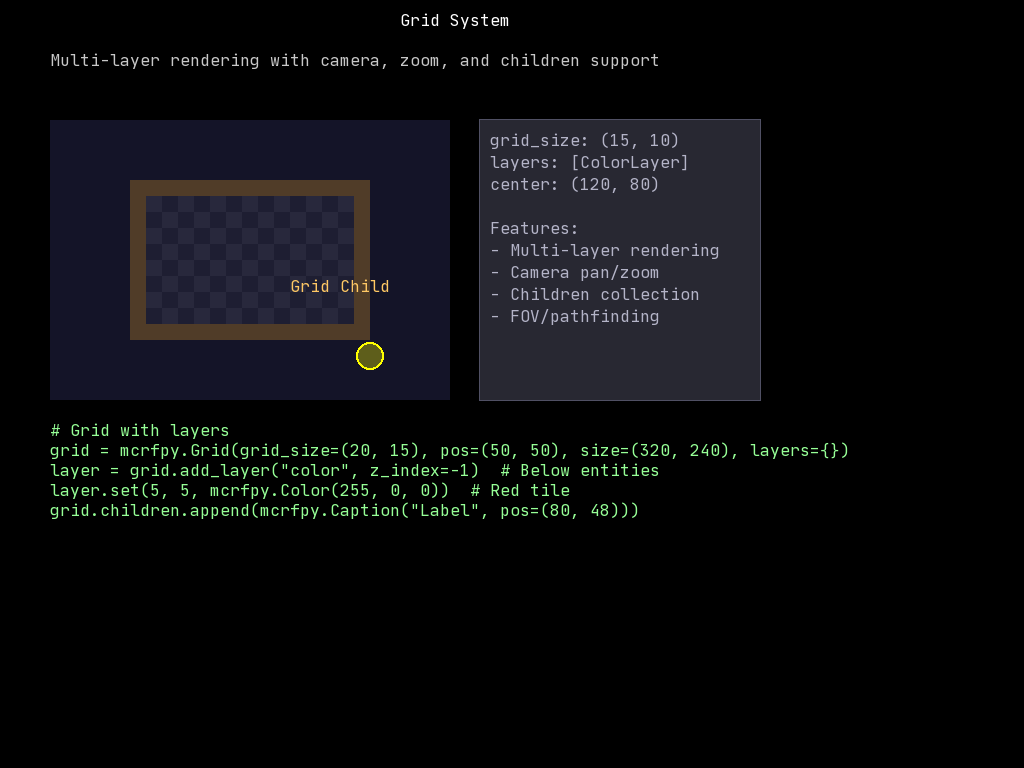
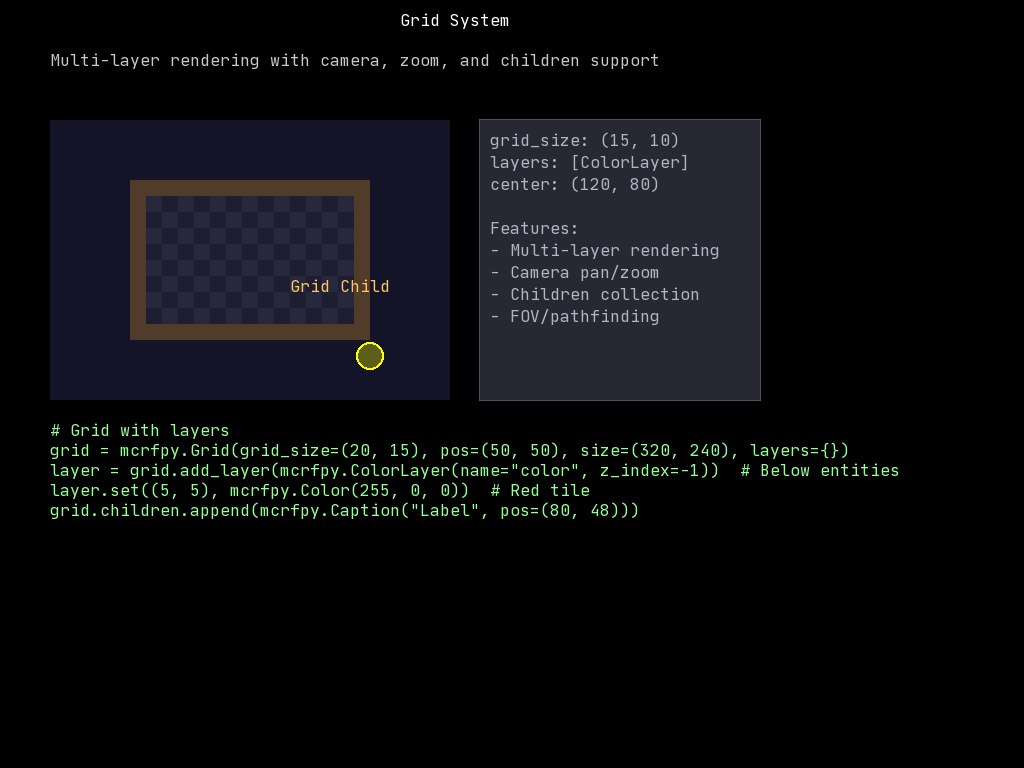
fix(demos): unrot tests/demo and gate it in CI
tests/demo/demo_main.py died immediately on `mcrfpy.sceneUI`, removed with the
pre-Scene-object API. Four bugs, not the one filed:

  1. screens/base.py called mcrfpy.sceneUI(name). The Scene object it had already
     constructed owns the UI collection: scene.children.
  2. demo_main.py called the removed mcrfpy.setScene().
  3. run_interactive() referenced `menu`, a local of create_menu() -- NameError on
     every interactive launch, independent of the sceneUI bug.
  4. run_headless() assigned a DemoScreen (not a Scene) to mcrfpy.current_scene ->
     TypeError, so the headless screenshot path was broken too.

The screens themselves had rotted the same way as the unit suite: add_layer() no
longer takes keyword arguments or a name (it takes a layer object), layer.set()
takes a position tuple, and mcrfpy.Animation is no longer exported (targets animate
themselves). Fixed in grid_demo and animation_demo, including the code samples the
demos display -- the demos are documentation, so a stale sample is a stale doc.

The headless path also no longer needs a Timer at all. Rendering costs zero
simulation time (#341/#350), so it just activates each scene and screenshots it,
rather than waiting for frames that headless never runs.

Six showcase scripts wrote to a hardcoded /opt/goblincorps/... absolute path outside
the repo, so they raised PermissionError for anyone else. Replaced with
tests/demo/docs_output.py: $MCRF_DOCS_REPO, else a side-by-side mcrogueface.github.io
[…]

Changed region(s): [[0.125, 0.5938, 0.6875, 0.6562], [0.7188, 0.5938, 0.875, 0.625]]

diff --git a/tests/demo/demo_main.py b/tests/demo/demo_main.py
@@ -40,6 +40,7 @@ class DemoRunner:
 
     def __init__(self):
         self.screens = []
+        self.menu = None
         self.current_index = 0
         self.headless = self._detect_headless()
         self.screenshot_dir = os.path.join(os.path.dirname(__file__), "screenshots")
@@ -65,7 +66,10 @@ class DemoRunner:
 
     def create_menu(self):
         """Create the main menu screen."""
-        menu = mcrfpy.Scene("menu")
+        # #372: was a local, but run_interactive() referenced `menu` -- NameError on
+        # every interactive launch. Keep it on the runner.
+        self.menu = mcrfpy.Scene("menu")
+        menu = self.menu
         ui = menu.children
 
         # Title
@@ -104,46 +108,30 @@ class DemoRunner:
         ui.append(instr)
 
     def run_headless(self):
-        """Run in headless mode - generate all screenshots."""
-        print(f"Generating {len(self.screens)} demo screenshots...")
+        """Run in headless mode - generate all screenshots.
 
-        # Ensure screenshot directory exists
+        #372/#350: this used to drive a Timer and wait for render frames. Headless
+        timers only advance under mcrfpy.step(), so that loop never fired. It is also
+        unnecessary: a screenshot renders the current state synchronously and costs
+        zero simulation time, so we can just activate each scene and shoot it.
+        """
+        print(f"Generating {len(self.screens)} demo screenshots...")
         os.makedirs(self.screenshot_dir, exist_ok=True)
 
-        # Use timer to take screenshots after game loop renders each scene
-        self.current_index = 0
-        self.render_wait = 0
+        for i, screen in enumerate(self.screens):
+            # #372: was `mcrfpy.current_scene = screen` -- a DemoScreen, not a Scene,
+            # which raised TypeError and broke the headless path outright.
+            screen.scene.activate()
+            filename = os.path.join(self.screenshot_dir, screen.get_screenshot_name())
+            automation.screenshot(filename)
+            print(f"  [{i+1}/{len(self.screens)}] {filename}")
 
-        def screenshot_cycle(timer, runtime):
-            if self.render_wait == 0:
-                # Set scene and wait for render
-                if self.current_index >= len(self.screens):
-                    print("Done!")
-                    sys.exit(0)
-                    return
-                screen = self.screens[self.current_index]
-                mcrfpy.current_scene = screen
-                self.render_wait = 1
-            elif self.render_wait < 2:
-                # Wait additional frame
-                self.render_wait += 1
-            else:
-                # Take screenshot
-                screen = self.screens[self.current_index]
-                filename = os.path.join(self.screenshot_dir, screen.get_screenshot_name())
-                automation.screenshot(filename)
-                print(f"  [{self.current_index+1}/{len(self.screens)}] {filename}")
-                self.current_index += 1
-                self.render_wait = 0
-                if self.current_index >= len(self.screens):
-                    print("Done!")
-                    sys.exit(0)
-
-        self.screenshot_timer = mcrfpy.Timer("screenshot", screenshot_cycle, 50)
+        print("Done!")
 
     def run_interactive(self):
         """Run in interactive mode with menu."""
         self.create_menu()
+        menu = self.menu
 
         def handle_key(key, state):
             if state != mcrfpy.InputState.PRESSED:
@@ -156,7 +144,8 @@ class DemoRunner:
             if key in _num_key_map:
                 idx = _num_key_map[key]
                 if idx < len(self.screens):
-                    mcrfpy.setScene(self.screens[idx].scene_name)
+                    # #372: mcrfpy.setScene() no longer exists.
+                    self.screens[idx].scene.activate()
 
             # ESC returns to menu
             elif key == mcrfpy.Key.ESCAPE:
@@ -166,14 +155,10 @@ class DemoRunner:
             elif key == mcrfpy.Key.Q:
                 sys.exit(0)
 
-        # Register keyboard handler on menu scene
-        menu.activate()
+        # The same handler serves the menu and every demo scene, so ESC always works.
         menu.on_key = handle_key
-
-        # Also register keyboard handler on all demo scenes
         for screen in self.screens:
-            mcrfpy.current_scene = screen
-            menu.on_key = handle_key
+            screen.scene.on_key = handle_key
 
         # Start on menu
         menu.activate()
@@ -185,6 +170,8 @@ def main():
 
     if runner.headless:
         runner.run_headless()
+        # #350: a headless --exec script must declare its outcome.
+        sys.exit(0)
     else:
         runner.run_interactive()
 

diff --git a/tests/demo/docs_output.py b/tests/demo/docs_output.py
@@ -1,0 +1,40 @@
+"""Where the showcase scripts write their generated images (#372).
+
+These scripts used to hardcode /opt/goblincorps/repos/mcrogueface.github.io -- an
+absolute path outside the repo, on one developer's machine. Anyone else running them
+got PermissionError, which is part of why they rotted unnoticed.
+
+Resolution order:
+  1. $MCRF_DOCS_REPO            -- explicit checkout of mcrogueface.github.io
+  2. ../mcrogueface.github.io   -- the usual side-by-side checkout
+  3. tests/demo/screenshots/    -- in-repo default, always writable
+"""
+import os
+
+_HERE = os.path.dirname(os.path.abspath(__file__))
+_REPO_ROOT = os.path.dirname(os.path.dirname(_HERE))
+
+
+def docs_repo():
+    """Root of the documentation site checkout, or None if there isn't one."""
+    env = os.environ.get("MCRF_DOCS_REPO")
+    if env and os.path.isdir(env):
+        return env
+    sibling = os.path.join(os.path.dirname(_REPO_ROOT), "mcrogueface.github.io")
+    if os.path.isdir(sibling):
+        return sibling
+    return None
+
+
+def image_dir(*parts):
+    """Directory for generated images, created if needed.
+
+    parts: subpath under the docs site's images/ (e.g. "cookbook", "tutorials").
+    """
+    repo = docs_repo()
+    if repo:
+        target = os.path.join(repo, "images", *parts)
+    else:
+        target = os.path.join(_HERE, "screenshots", *parts)
+    os.makedirs(target, exist_ok=True)
+    return target

diff --git a/tests/demo/screens/animation_demo.py b/tests/demo/screens/animation_demo.py
@@ -10,20 +10,21 @@ class AnimationDemo(DemoScreen):
         self.add_title("Animation System")
         self.add_description("Smooth property animation with multiple easing functions")
 
-        # Create frames to animate
+        # Create frames to animate.
+        # #372: easings are the mcrfpy.Easing enum now, not magic strings.
         easing_types = [
-            ("linear", mcrfpy.Color(255, 100, 100)),
-            ("easeIn", mcrfpy.Color(100, 255, 100)),
-            ("easeOut", mcrfpy.Color(100, 100, 255)),
-            ("easeInOut", mcrfpy.Color(255, 255, 100)),
+            ("linear", mcrfpy.Easing.LINEAR, mcrfpy.Color(255, 100, 100)),
+            ("easeIn", mcrfpy.Easing.EASE_IN, mcrfpy.Color(100, 255, 100)),
+            ("easeOut", mcrfpy.Easing.EASE_OUT, mcrfpy.Color(100, 100, 255)),
+            ("easeInOut", mcrfpy.Easing.EASE_IN_OUT, mcrfpy.Color(255, 255, 100)),
         ]
 
         self.frames = []
-        for i, (easing, color) in enumerate(easing_types):
+        for i, (easing_name, easing, color) in enumerate(easing_types):
             y = 140 + i * 60
 
             # Label
-            label = mcrfpy.Caption(text=easing, pos=(50, y + 5))
+            label = mcrfpy.Caption(text=easing_name, pos=(50, y + 5))
             label.fill_color = mcrfpy.Color(200, 200, 200)
             self.ui.append(label)
 
@@ -42,9 +43,9 @@ class AnimationDemo(DemoScreen):
 
         # Start animations for each frame (they'll animate when viewed interactively)
         for frame, easing in self.frames:
-            # Animate x to 560 over 2 seconds (starts from current x=150)
-            anim = mcrfpy.Animation("x", 560.0, 2.0, easing)
-            anim.start(frame)
+            # #372: mcrfpy.Animation is no longer exported -- animations are constructed
+            # by the target itself. Animate x to 560 over 2s (starts from current x=150).
+            frame.animate("x", 560.0, 2.0, easing)
 
         # Property animations section
         prop_frame = mcrfpy.Frame(pos=(50, 400), size=(300, 100))
@@ -66,7 +67,7 @@ class AnimationDemo(DemoScreen):
         prop_frame.children.append(props_line2)
 
         # Code example - positioned below other elements
-        code = """# Animation: (property, target, duration, easing)
-anim = mcrfpy.Animation("x", 500.0, 2.0, "easeInOut")
-anim.start(frame)  # Animate frame.x to 500 over 2 seconds"""
+        code = """# Animate via the target: (property, target, duration, easing)
+frame.animate("x", 500.0, 2.0, mcrfpy.Easing.EASE_IN_OUT)
+# -> frame.x eases to 500 over 2 seconds"""
         self.add_code_example(code, x=50, y=520)

diff --git a/tests/run_tests.py b/tests/run_tests.py
@@ -41,7 +41,18 @@ SANITIZER_PATTERNS = [
 ]
 
 # Test directories to run (in order)
-TEST_DIRS = ['unit', 'integration', 'regression']
+TEST_DIRS = ['unit', 'integration', 'regression', 'demo']
+
+# #372: tests/demo/ was never run by anything, so the demo screens -- which CLAUDE.md
+# points at as the canonical API-usage examples -- silently bitrotted until they could
+# not even import. Smoke-gate the entry point that exercises screens/base.py and every
+# wired DemoScreen, so "read the demos for correct usage" stays true.
+#
+# An allowlist, not a glob: the other scripts under tests/demo/ are standalone
+# showcases that are not part of the demo_main path (see the follow-up issue for
+# adopting them). Demos render, so they need a longer timeout than a unit test.
+DEMO_SMOKE_TESTS = ['demo_main.py']
+DEMO_TIMEOUT = 60  # seconds
 
 # ANSI colors
 GREEN = '\033[92m'
@@ -157,6 +168,9 @@ def find_tests(directory):
     test_dir = TESTS_DIR / directory
     if not test_dir.exists():
         return []
+    if directory == 'demo':
+        # #372: allowlisted entry points only -- see DEMO_SMOKE_TESTS.
+        return [test_dir / name for name in DEMO_SMOKE_TESTS if (test_dir / name).exists()]
     return sorted(test_dir.glob("*.py"))
 
 def main():
@@ -210,8 +224,11 @@ def main():
 
         for test_path in tests:
             test_name = test_path.name
+            # Demos render several scenes; they need more headroom than a unit test.
+            test_timeout = (DEMO_TIMEOUT * timeout_multiplier
+                            if test_dir == 'demo' else effective_timeout)
             passed, duration, output, san_errors = run_test(
-                test_path, verbose, effective_timeout,
+                test_path, verbose, test_timeout,
                 sanitizer_mode=sanitizer_mode,
                 valgrind_mode=valgrind_mode
             )

diff --git a/tests/demo/screens/grid_demo.py b/tests/demo/screens/grid_demo.py
@@ -15,7 +15,8 @@ class GridDemo(DemoScreen):
         grid.fill_color = mcrfpy.Color(20, 20, 40)
 
         # Add a color layer for the checkerboard pattern (z_index=-1 = below entities)
-        color_layer = grid.add_layer("color", z_index=-1)
+        # #372: add_layer() takes a layer OBJECT and no keyword arguments.
+        color_layer = grid.add_layer(mcrfpy.ColorLayer(name="color", z_index=-1))
 
         # Center camera on middle of grid (in pixel coordinates: cells * cell_size / 2)
         # For 15x10 grid with 16x16 cells: center = (15*16/2, 10*16/2) = (120, 80)
@@ -28,13 +29,13 @@ class GridDemo(DemoScreen):
                 point = grid.at(x, y)
                 # Checkerboard pattern
                 if (x + y) % 2 == 0:
-                    color_layer.set(x, y, mcrfpy.Color(40, 40, 60))
+                    color_layer.set((x, y), mcrfpy.Color(40, 40, 60))
                 else:
-                    color_layer.set(x, y, mcrfpy.Color(30, 30, 50))
+                    color_layer.set((x, y), mcrfpy.Color(30, 30, 50))
 
                 # Border
                 if x == 0 or x == 14 or y == 0 or y == 9:
-                    color_layer.set(x, y, mcrfpy.Color(80, 60, 40))
+                    color_layer.set((x, y), mcrfpy.Color(80, 60, 40))
                     point.walkable = False
 
         # Add some children to the grid
@@ -74,7 +75,7 @@ class GridDemo(DemoScreen):
         # Code example
         code = """# Grid with layers
 grid = mcrfpy.Grid(grid_size=(20, 15), pos=(50, 50), size=(320, 240), layers={})
-layer = grid.add_layer("color", z_index=-1)  # Below entities
-layer.set(5, 5, mcrfpy.Color(255, 0, 0))  # Red tile
+layer = grid.add_layer(mcrfpy.ColorLayer(name="color", z_index=-1))  # Below entities
+layer.set((5, 5), mcrfpy.Color(255, 0, 0))  # Red tile
 grid.children.append(mcrfpy.Caption("Label", pos=(80, 48)))"""
         self.add_code_example(code, y=420)

diff --git a/tests/demo/screens/base.py b/tests/demo/screens/base.py
@@ -9,8 +9,11 @@ class DemoScreen:
 
     def __init__(self, scene_name):
         self.scene_name = scene_name
-        _scene = mcrfpy.Scene(scene_name)
-        self.ui = mcrfpy.sceneUI(scene_name)
+        # #372: mcrfpy.sceneUI() was removed with the pre-Scene-object API. The Scene
+        # owns its UI collection directly, and the demos need the Scene anyway to
+        # activate themselves.
+        self.scene = mcrfpy.Scene(scene_name)
+        self.ui = self.scene.children
 
     def setup(self):
         """Override to set up the screen content."""

diff --git a/tests/demo/procgen_showcase.py b/tests/demo/procgen_showcase.py
@@ -4,10 +4,12 @@
 Uses Frame-based visualization since Grid cell colors use ColorLayer API.
 """
 import mcrfpy
+import os
+import docs_output
 from mcrfpy import automation
 import sys
 
-OUTPUT_DIR = "/opt/goblincorps/repos/mcrogueface.github.io/images/cookbook"
+OUTPUT_DIR = docs_output.image_dir("cookbook")  # #372: was a hardcoded absolute path
 
 # Simple PRNG
 _seed = 42

diff --git a/tests/demo/cookbook_showcase.py b/tests/demo/cookbook_showcase.py
@@ -8,12 +8,13 @@ Run with: xvfb-run -a ./build/mcrogueface --headless --exec tests/demo/cookbook_
 In headless mode, automation.screenshot() is SYNCHRONOUS - no timer dance needed!
 """
 import mcrfpy
+import docs_output
 from mcrfpy import automation
 import sys
 import os
 
 # Output directory - in the docs site images folder
-OUTPUT_DIR = "/opt/goblincorps/repos/mcrogueface.github.io/images/cookbook"
+OUTPUT_DIR = docs_output.image_dir("cookbook")  # #372: was a hardcoded absolute path
 
 # Tile sprites from the labeled tileset
 TILES = {

diff --git a/tests/demo/new_features_showcase.py b/tests/demo/new_features_showcase.py
@@ -6,11 +6,12 @@ Generates screenshots for the new API cookbook recipes.
 Run with: xvfb-run -a ./build/mcrogueface --headless --exec tests/demo/new_features_showcase.py
 """
 import mcrfpy
+import docs_output
 from mcrfpy import automation
 import sys
 import os
 
-OUTPUT_DIR = "/opt/goblincorps/repos/mcrogueface.github.io/images/cookbook"
+OUTPUT_DIR = docs_output.image_dir("cookbook")  # #372: was a hardcoded absolute path
 
 
 def screenshot_alignment():

diff --git a/tests/demo/simple_showcase.py b/tests/demo/simple_showcase.py
@@ -9,12 +9,13 @@ NOTE: In headless mode, automation.screenshot() is SYNCHRONOUS - it renders
 and captures immediately. No timer dance needed!
 """
 import mcrfpy
+import docs_output
 from mcrfpy import automation
 import sys
 import os
 
 # Output
-OUTPUT_PATH = "/opt/goblincorps/repos/mcrogueface.github.io/images/tutorials/part_01_grid_movement.png"
+OUTPUT_PATH = os.path.join(docs_output.image_dir("tutorials"), "part_01_grid_movement.png")  # #372
 
 # Tile sprites from the labeled tileset
 PLAYER_KNIGHT = 84

diff --git a/tests/demo/tutorial_screenshots.py b/tests/demo/tutorial_screenshots.py
@@ -8,13 +8,14 @@ Usage:
 Extracts code from tutorial markdown files and generates screenshots.
 """
 import mcrfpy
+import docs_output
 from mcrfpy import automation
 import sys
 import os
 import re
 
 # Paths
-DOCS_REPO = "/opt/goblincorps/repos/mcrogueface.github.io"
+DOCS_REPO = docs_output.docs_repo() or os.path.dirname(os.path.abspath(__file__))  # #372
 TUTORIAL_DIR = os.path.join(DOCS_REPO, "tutorial")
 OUTPUT_DIR = os.path.join(DOCS_REPO, "images", "tutorials")
 

diff --git a/tests/demo/tutorial_showcase.py b/tests/demo/tutorial_showcase.py
@@ -8,12 +8,13 @@ Run with: xvfb-run -a ./build/mcrogueface --headless --exec tests/demo/tutorial_
 In headless mode, automation.screenshot() is SYNCHRONOUS - no timer dance needed!
 """
 import mcrfpy
+import docs_output
 from mcrfpy import automation
 import sys
 import os
 
 # Output directory
-OUTPUT_DIR = "/opt/goblincorps/repos/mcrogueface.github.io/images/tutorials"
+OUTPUT_DIR = docs_output.image_dir("tutorials")  # #372: was a hardcoded absolute path
 
 # Tile meanings from the labeled tileset - the FUN sprites!
 TILES = {